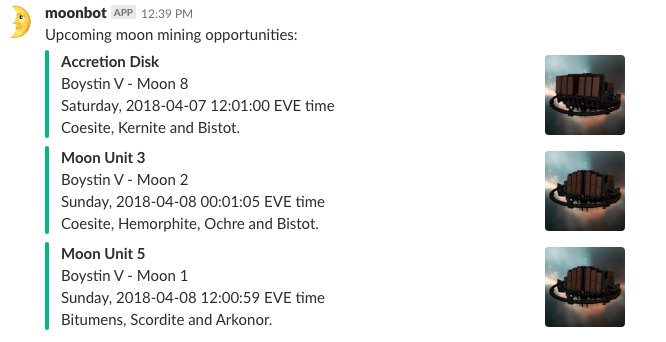
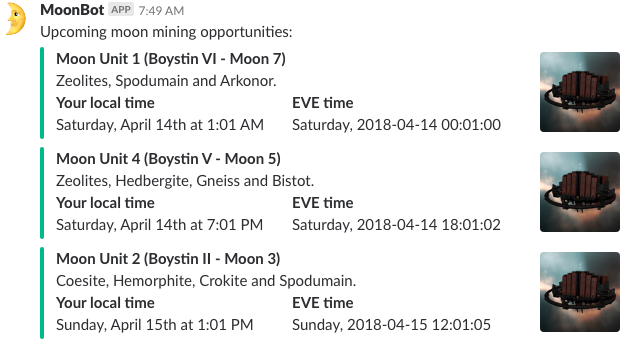
Dates as local time
Represent extraction dates in both EVE time and each reader's local time, using Slack date formatting commands for the latter.
Resolves #2.

Changed region(s): [[0.0, 0.0, 0.9968, 0.9649], [0.8156, 0.7018, 0.9968, 0.9649]]

diff --git a/moonbot.rb b/moonbot.rb
@@ -89,14 +89,20 @@ attachments = extractions.map do |ex|
   moon = universe_api.get_universe_moons_moon_id(ex.moon_id)
   # Remove the system name from the start of the structure name
   structure_name = structure_p.name.sub(/^.* - /, '')
-  eve_time = ex.chunk_arrival_time.strftime('%A, %Y-%m-%d %H:%M:%S EVE time')
+  abs_time = ex.chunk_arrival_time.to_time.to_i
+  local_time = "<!date^#{abs_time}^{date_long} at {time}|x>"
+  eve_time = ex.chunk_arrival_time.strftime('%A, %Y-%m-%d %H:%M:%S')
   stuff = config[:minerals][moon.name] || 'Unknown.'
   {
-    title: structure_name.to_s,
+    title: "#{structure_name} (#{moon.name})",
     color: 'good',
-    text: "#{moon.name}\n#{eve_time}\n#{stuff}",
+    text: stuff,
     fallback: "#{ex.chunk_arrival_time.strftime('%A at %H:%M')} " \
               "at #{structure_name}",
+    fields: [
+      { title: 'Your local time', value: local_time, short: true },
+      { title: 'EVE time', value: eve_time, short: true }
+    ],
     thumb_url: "https://imageserver.eveonline.com/Render/#{structure.type_id}_128.png"
   }
 end
